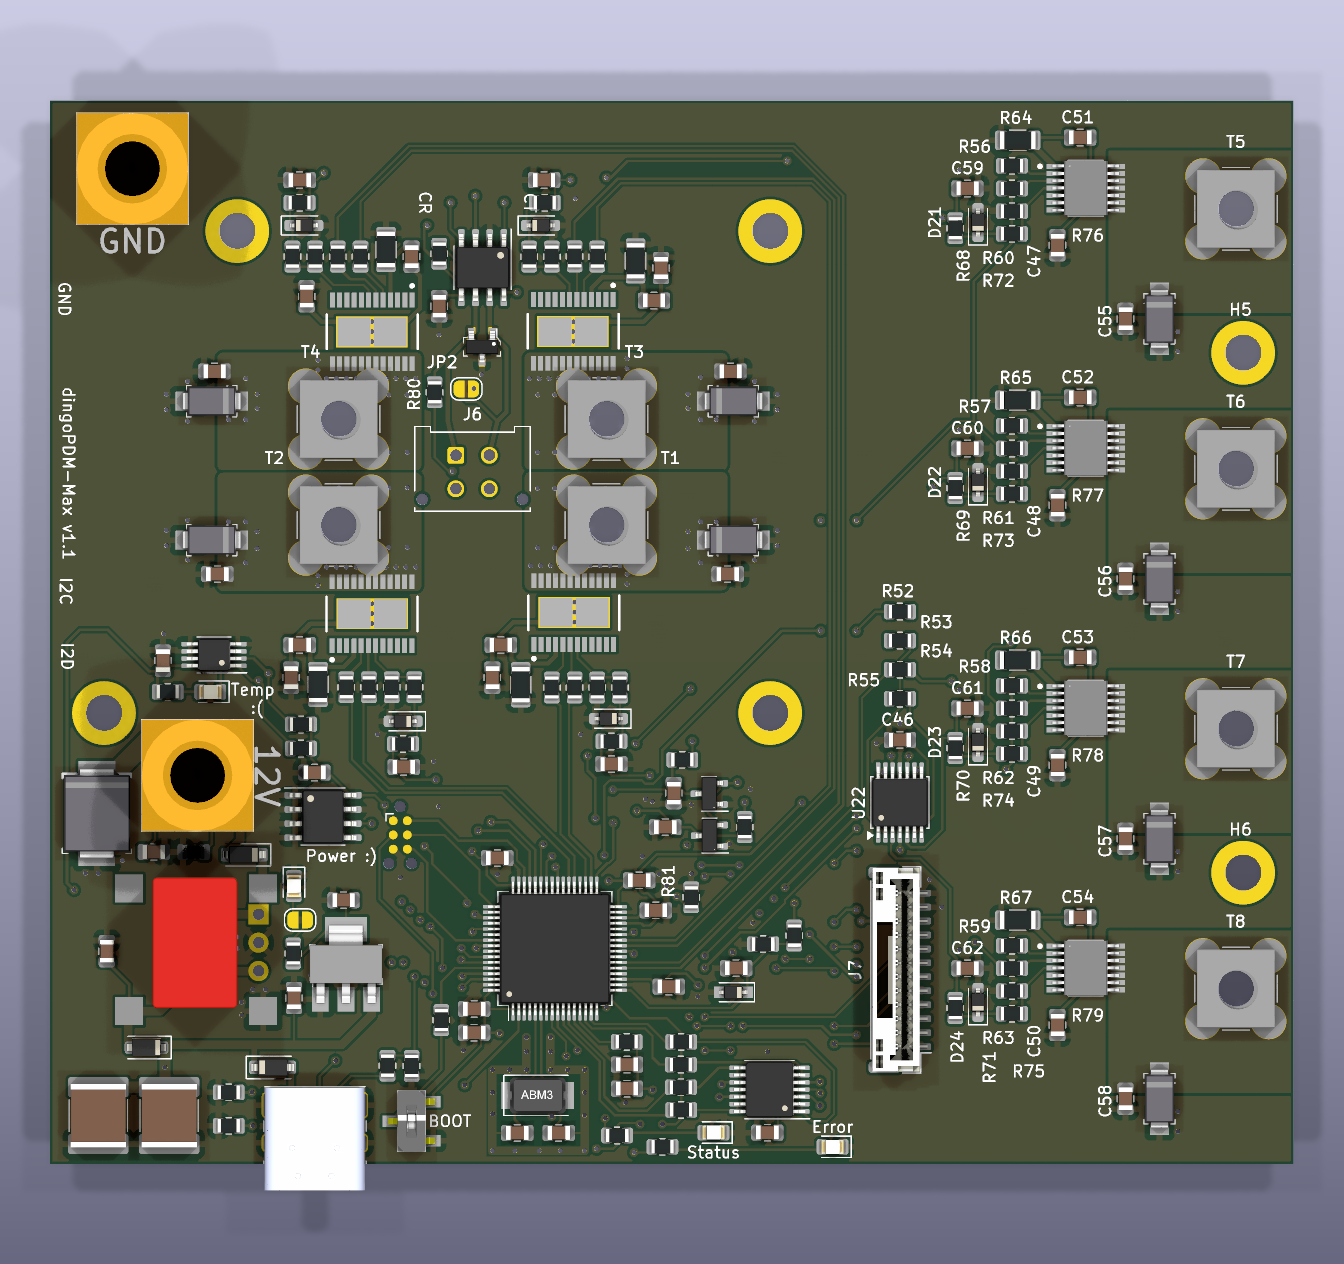
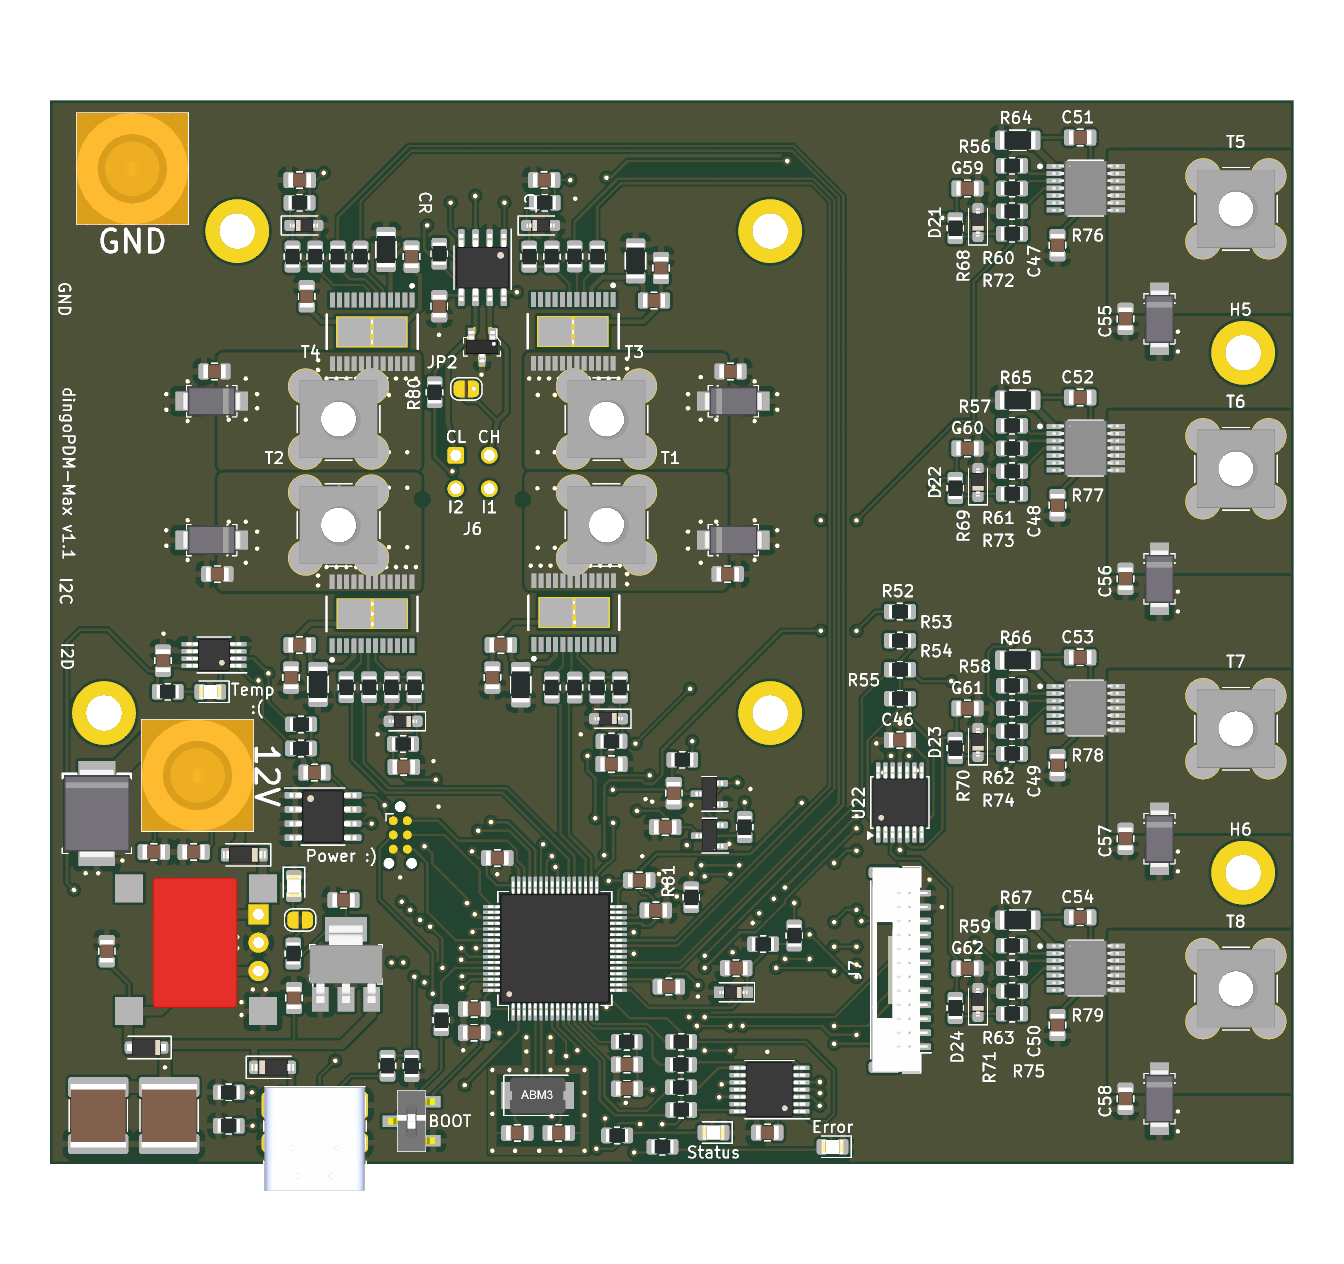
docs: wire pad names for J3 / J6; top-surface renders of boards A and B
Claude-Session: https://claude.ai/code/session_014aA8s43Q562Zi7DSgMxRgH

diff --git a/docs/firmware-pin-map.md b/docs/firmware-pin-map.md
@@ -58,14 +58,14 @@ Eight outputs, 7.5 A each: four BTS7008-2EPA duals. Pairs: OUT1+2 on U8 (NEW: wa
 
 | Out | IN pin (PIN) | DEN pin | DSEL pin | IS pin, ADC1 channel | Driver | Enclosure pin | Stock v7 | Diff |
 |---|---|---|---|---|---|---|---|---|
-| 1 | PB10 (29) PF_IN1 | PB2 (28) PF_DEN1 | PC7 (38) PF_DSEL1_2 | PA0 (14) PF_IS1, IN0 | U8 ch0 | J3.8 | single BTS7002, DEN1 = PB2 | now dual CH1. DEN is shared with out 2. DSEL is NEW (on the old DEN2 pin PC7). IS shared with out 2. |
-| 2 | PC8 (39) PF_IN2 | PB2 (28), shared | PC7 (38), shared | PA0 (14), shared | U8 ch1 | J3.7 | single, DEN2 = PC7, IS2 = PC2 | now dual CH2. Old IS2 (PC2) no longer a current sense. |
-| 3 | PC6 (37) PF_IN3 | PB15 (36) PF_DEN3_4 | PB14 (35) PF_DSEL3_4 | PC3 (11) PF_IS3_4, IN13 | U11 ch0 | J3.10 | same | none |
-| 4 | PB12 (33) PF_IN4 | PB15 (36) | PB14 (35) | PC3 (11) | U11 ch1 | J3.9 | same | none |
-| 5 | PB1 (27) PF_IN5 | PB0 (26) PF_DEN5_6 | PC5 (25) PF_DSEL5_6 | PA1 (15) PF_IS5_6, IN1 | U10 ch0 | J3.6 | same | none |
-| 6 | PC4 (24) PF_IN6 | PB0 (26) | PC5 (25) | PA1 (15) | U10 ch1 | J3.5 | same | none |
-| 7 | PA7 (23) PF_IN7 | PA6 (22) PF_DEN7_8 | PA5 (21) PF_DSEL7_8 | PA2 (16) PF_IS7_8, IN2 | U13 ch0 | J3.4 | same | none |
-| 8 | PA4 (20) PF_IN8 | PA6 (22) | PA5 (21) | PA2 (16) | U13 ch1 | J3.3 | same | none |
+| 1 | PB10 (29) PF_IN1 | PB2 (28) PF_DEN1 | PC7 (38) PF_DSEL1_2 | PA0 (14) PF_IS1, IN0 | U8 ch0 | J3 pad 8 (O1) | single BTS7002, DEN1 = PB2 | now dual CH1. DEN is shared with out 2. DSEL is NEW (on the old DEN2 pin PC7). IS shared with out 2. |
+| 2 | PC8 (39) PF_IN2 | PB2 (28), shared | PC7 (38), shared | PA0 (14), shared | U8 ch1 | J3 pad 7 (O2) | single, DEN2 = PC7, IS2 = PC2 | now dual CH2. Old IS2 (PC2) no longer a current sense. |
+| 3 | PC6 (37) PF_IN3 | PB15 (36) PF_DEN3_4 | PB14 (35) PF_DSEL3_4 | PC3 (11) PF_IS3_4, IN13 | U11 ch0 | J3 pad 10 (O3) | same | none |
+| 4 | PB12 (33) PF_IN4 | PB15 (36) | PB14 (35) | PC3 (11) | U11 ch1 | J3 pad 9 (O4) | same | none |
+| 5 | PB1 (27) PF_IN5 | PB0 (26) PF_DEN5_6 | PC5 (25) PF_DSEL5_6 | PA1 (15) PF_IS5_6, IN1 | U10 ch0 | J3 pad 6 (O5) | same | none |
+| 6 | PC4 (24) PF_IN6 | PB0 (26) | PC5 (25) | PA1 (15) | U10 ch1 | J3 pad 5 (O6) | same | none |
+| 7 | PA7 (23) PF_IN7 | PA6 (22) PF_DEN7_8 | PA5 (21) PF_DSEL7_8 | PA2 (16) PF_IS7_8, IN2 | U13 ch0 | J3 pad 4 (O7) | same | none |
+| 8 | PA4 (20) PF_IN8 | PA6 (22) | PA5 (21) | PA2 (16) | U13 ch1 | J3 pad 3 (O8) | same | none |
 
 Dual pairs rely on the stock rule: DSEL low = channel 0, high = channel 1, wait 60 us, then read IS (`profet.cpp` `HandleDsel`).
 
@@ -73,8 +73,8 @@ Dual pairs rely on the stock rule: DSEL low = channel 0, high = channel 1, wait 
 
 | Name | MCU pin (PIN) | Goes to | Type | Stock v7 | Diff |
 |---|---|---|---|---|---|
-| IN_1 (DI1) | PA10 (43) | J3.12 (INPUT1), 4.7k + BAT54S + 10 nF on board | digital | same | none |
-| IN_2 (DI2) | PC9 (40) | J3.11 (INPUT2) | digital | same | none |
+| IN_1 (DI1) | PA10 (43) | J3 pad 12 (I1, INPUT1), 4.7k + BAT54S + 10 nF on board | digital | same | none |
+| IN_2 (DI2) | PC9 (40) | J3 pad 11 (I2, INPUT2) | digital | same | none |
 | IN_3 | PC10 (51) | J6.1 -> input board ch 1 | digital | debug output E1 | NEW |
 | IN_4 | PC11 (52) | J6.2 -> ch 2 | digital | debug output E2 | NEW |
 | IN_5 | PB4 (56) | J6.3 -> ch 3 | digital | unused (input, pull-up) | NEW |
@@ -121,8 +121,8 @@ The IS to channel link was traced through the buffers: CH5 -> U22C -> PF_IS5, CH
 
 | Name | MCU pin (PIN) | Goes to | Type | Diff |
 |---|---|---|---|---|
-| IN_1 (DI1) | PA10 (43) | J6.4 (INPUT1) | digital | none |
-| IN_2 (DI2) | PC9 (40) | J6.3 (INPUT2) | digital | none |
+| IN_1 (DI1) | PA10 (43) | J6 pad 4 (I1, INPUT1; wire pad) | digital | none |
+| IN_2 (DI2) | PC9 (40) | J6 pad 3 (I2, INPUT2; wire pad) | digital | none |
 | B_IN3 | PC14 (3) | J7.1 -> input board ch 1 | digital | NEW |
 | B_IN4 | PC15 (4) | J7.2 -> ch 2 | digital | NEW |
 | B_IN5 | PC13 (2) | J7.3 -> ch 3 | digital | NEW (moved from PB2 = BOOT1, B1) |
@@ -135,7 +135,7 @@ The IS to channel link was traced through the buffers: CH5 -> U22C -> PF_IS5, CH
 
 PB2 (pin 28) carries no signal on board B: only the 10k BOOT1 pull-down. The numbering B_IN3..B_IN10 is the schematic net name; the input board calls the same wires ch 1..8 (section 8).
 
-**System pins**: same as board A (section 3) for CAN1 (PB8, PB9; connector J6.1 CAN_L, J6.2 CAN_H), CAN standby PC12, I2C1 (PB6, PB7; U5, U6; R12, R13), battery sense PA3, USB (PA11, PA12, PA9), LEDs PC0 red (D7) and PC1 green (D8), SWD PA13/PA14 and NRST (J5 Tag-Connect). Differences: J5.6 = SWO is wired to PB3 (55); BOOT0 via R10 and SW1. PB2: net `/MCU/BOOT1`, 10k to GND only (board fix, B4-b(b)).
+**System pins**: same as board A (section 3) for CAN1 (PB8, PB9; wire pads J6 1 CAN_L (CL), 2 CAN_H (CH)), CAN standby PC12, I2C1 (PB6, PB7; U5, U6; R12, R13), battery sense PA3, USB (PA11, PA12, PA9), LEDs PC0 red (D7) and PC1 green (D8), SWD PA13/PA14 and NRST (J5 Tag-Connect). Differences: J5.6 = SWO is wired to PB3 (55); BOOT0 via R10 and SW1. PB2: net `/MCU/BOOT1`, 10k to GND only (board fix, B4-b(b)).
 
 ## 5. ADC channels and PWM timers
 

diff --git a/docs/box-connectors.md b/docs/box-connectors.md
@@ -10,6 +10,12 @@ size 16 = 13 A (14-20 AWG), size 12 = 25 A (12-14 AWG), size 8 = 60 A (8-10 AWG)
 
 Rule (Dan, standing): anything that sources power has **socket** contacts on the box side, so no live pins are exposed when the connector is unplugged.
 
+Inside the box, wires solder straight to the boards (Dan 2026-11-12, e6a / a1a / a2b): board A J3 = wire pads in the old
+DT15-12PA holes (1.77 mm drill: 16 AWG outputs, 20 AWG IN / CAN), silkscreen CL CH O1-O8 I1 I2 between the pad rows;
+board B J6 = wire pads in the old Micro-Fit 2x2 holes (1.02 mm drill, 20 AWG), silkscreen CL CH I1 I2. Footprints:
+`tools/wirepads.py`. "J3 pad 8" below = the J3 hole numbered 8. Board B J6 wires run flat on the top surface under the
+T1-T4 straps (REDCUBE 74650074R body is 3.0 mm tall).
+
 ## Overview
 
 | # | Box side (panel) | Harness side | Insert | Carries |
@@ -24,14 +30,14 @@ Insert 24-21. Size 12 cavities are B, D, E, G (inner big ring), and the other 17
 
 | Cavity | Signal | Board connector | Cavity | Signal | Board connector |
 |---|---|---|---|---|---|
-| H | A1_OUT1 | A1 J3-8 | S | A2_OUT1 | A2 J3-8 |
-| J | A1_OUT2 | A1 J3-7 | T | A2_OUT2 | A2 J3-7 |
-| K | A1_OUT3 | A1 J3-10 | U | A2_OUT3 | A2 J3-10 |
-| L | A1_OUT4 | A1 J3-9 | V | A2_OUT4 | A2 J3-9 |
-| M | A1_OUT5 | A1 J3-6 | W | A2_OUT5 | A2 J3-6 |
-| N | A1_OUT6 | A1 J3-5 | X | A2_OUT6 | A2 J3-5 |
-| P | A1_OUT7 | A1 J3-4 | A | A2_OUT7 | A2 J3-4 |
-| R | A1_OUT8 | A1 J3-3 | C | A2_OUT8 | A2 J3-3 |
+| H | A1_OUT1 | A1 J3 pad 8 (O1) | S | A2_OUT1 | A2 J3 pad 8 (O1) |
+| J | A1_OUT2 | A1 J3 pad 7 (O2) | T | A2_OUT2 | A2 J3 pad 7 (O2) |
+| K | A1_OUT3 | A1 J3 pad 10 (O3) | U | A2_OUT3 | A2 J3 pad 10 (O3) |
+| L | A1_OUT4 | A1 J3 pad 9 (O4) | V | A2_OUT4 | A2 J3 pad 9 (O4) |
+| M | A1_OUT5 | A1 J3 pad 6 (O5) | W | A2_OUT5 | A2 J3 pad 6 (O5) |
+| N | A1_OUT6 | A1 J3 pad 5 (O6) | X | A2_OUT6 | A2 J3 pad 5 (O6) |
+| P | A1_OUT7 | A1 J3 pad 4 (O7) | A | A2_OUT7 | A2 J3 pad 4 (O7) |
+| R | A1_OUT8 | A1 J3 pad 3 (O8) | C | A2_OUT8 | A2 J3 pad 3 (O8) |
 
 | Cavity | Signal | Board connector |
 |---|---|---|
@@ -50,10 +56,10 @@ The drawing labels only some numbers (1, 2, 20, 30, 40, 47); the rest come from 
 | Cavity | Signal | Source inside the box |
 |---|---|---|
 | 2, 3 | CAN_H, CAN_L | CAN bus to the Link ECU (twisted pair; daisy-chained inside the box) |
-| 7, 8 | A1_IN1, A1_IN2 | board A1 J3 pins 12, 11 |
+| 7, 8 | A1_IN1, A1_IN2 | board A1 J3 pads 12 (I1), 11 (I2) |
 | 9-13 | A1_IN3 .. A1_IN7 | input board #1 J2 pins 1-5 |
 | 14 | A1_AN | input board #1 J2 pin 9 (0-5 V) |
-| 15, 16 | A2_IN1, A2_IN2 | board A2 J3 pins 12, 11 |
+| 15, 16 | A2_IN1, A2_IN2 | board A2 J3 pads 12 (I1), 11 (I2) |
 | 17-21 | A2_IN3 .. A2_IN7 | input board #2 J2 pins 1-5 |
 | 22 | A2_AN | input board #2 J2 pin 9 |
 | 23, 24 | B_IN1, B_IN2 | board B stock inputs |
